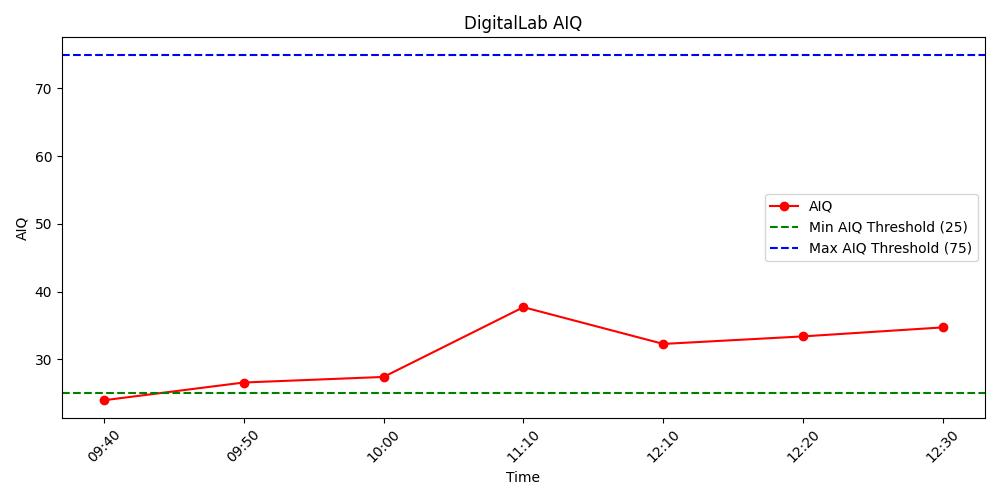
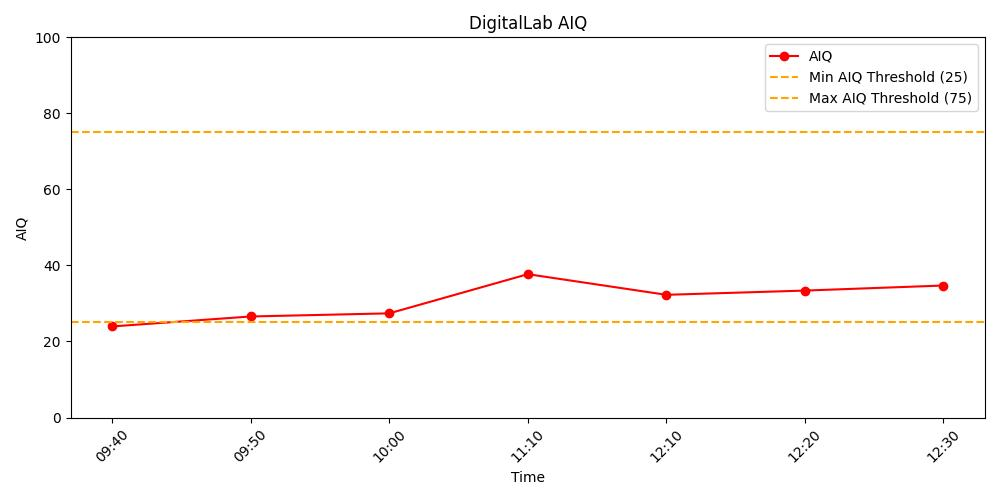
a

diff --git a/Next-Best Action System/MainPlotting.py b/Next-Best Action System/MainPlotting.py
@@ -3,7 +3,7 @@ import os
 from datetime import datetime
 import matplotlib.pyplot as plt
 from ComfortMeasures import calculate_aiq, calculate_apparent_temp
-
+from ExtractData import *
 
 
 def read_sensor_data(file_path):
@@ -44,9 +44,11 @@ def plot_and_save_TEMP(timestamps, temp_values, title, plot_id):
     times_of_day = [ts.strftime('%H:%M') for ts in timestamps]
     plt.plot(times_of_day, temp_values, 'bo-', label='Apparent Temperature')
 
+    plt.ylim(17, 30)
+
     # Add horizontal lines for temperature thresholds
-    plt.axhline(y=19, color='g', linestyle='--', label='Min Temp Threshold (19°C)')
-    plt.axhline(y=24, color='b', linestyle='--', label='Max Temp Threshold (24°C)')
+    plt.axhline(y=19, color='orange', linestyle='--', label='Min Temp Threshold (19°C)')
+    plt.axhline(y=24, color='orange', linestyle='--', label='Max Temp Threshold (24°C)')
 
     plt.title(title)
     plt.xlabel('Time')
@@ -65,9 +67,11 @@ def plot_and_save_AIQ(timestamps, aiq_values, title, plot_id):
     times_of_day = [ts.strftime('%H:%M') for ts in timestamps]
     plt.plot(times_of_day, aiq_values, 'ro-', label='AIQ')
 
+    plt.ylim(0, 100)
+
     # Add horizontal lines for AIQ thresholds
-    plt.axhline(y=25, color='g', linestyle='--', label='Min AIQ Threshold (25)')
-    plt.axhline(y=75, color='b', linestyle='--', label='Max AIQ Threshold (75)')
+    plt.axhline(y=25, color='orange', linestyle='--', label='Min AIQ Threshold (25)')
+    plt.axhline(y=75, color='orange', linestyle='--', label='Max AIQ Threshold (75)')
 
     plt.title(title)
     plt.xlabel('Time')
